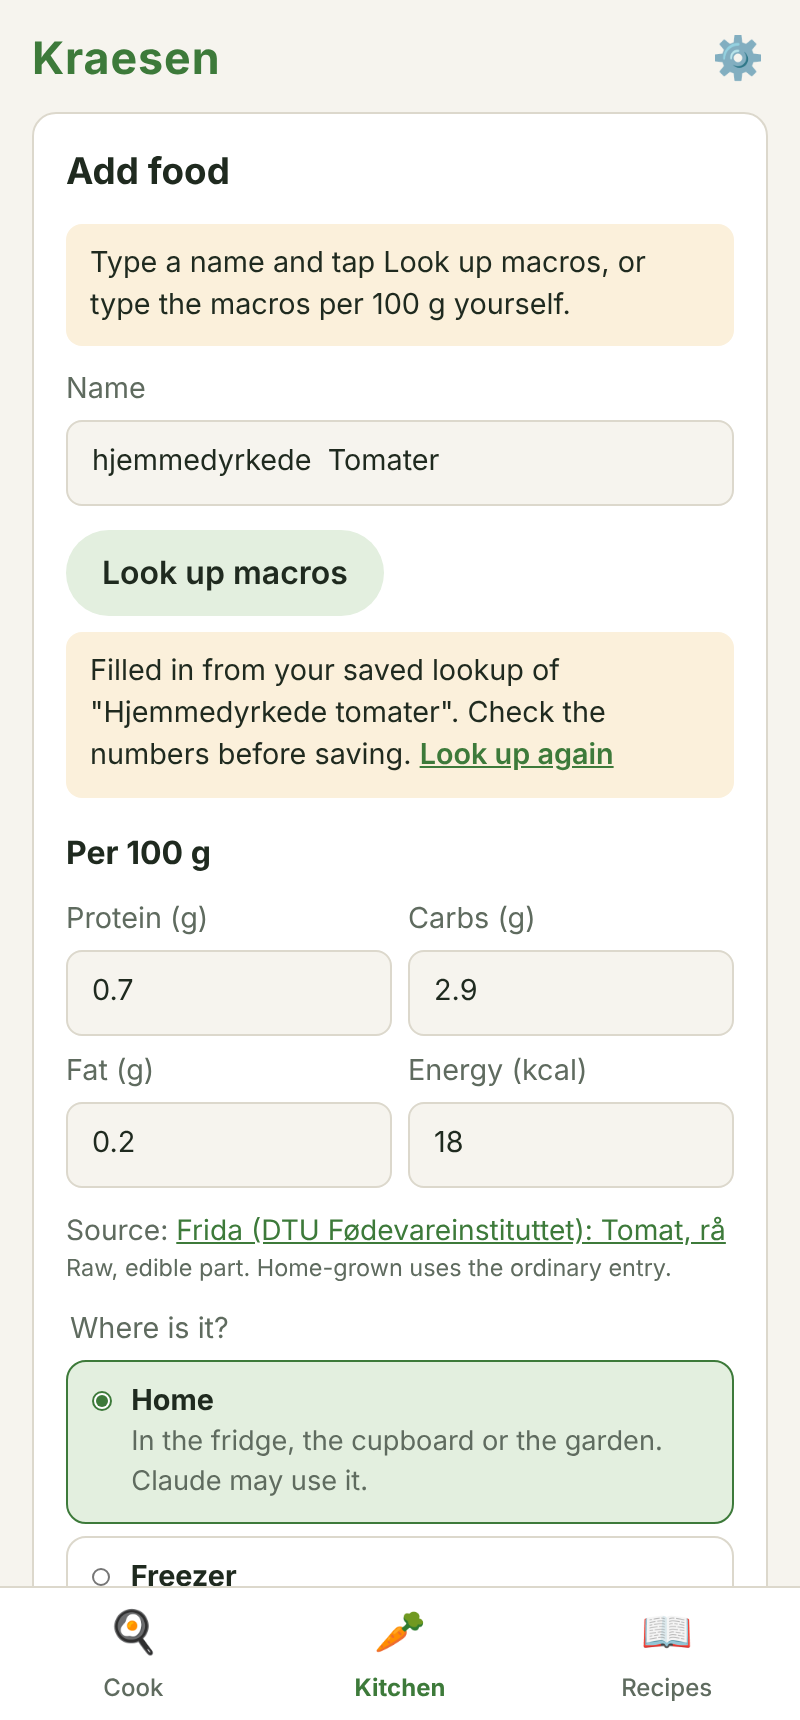
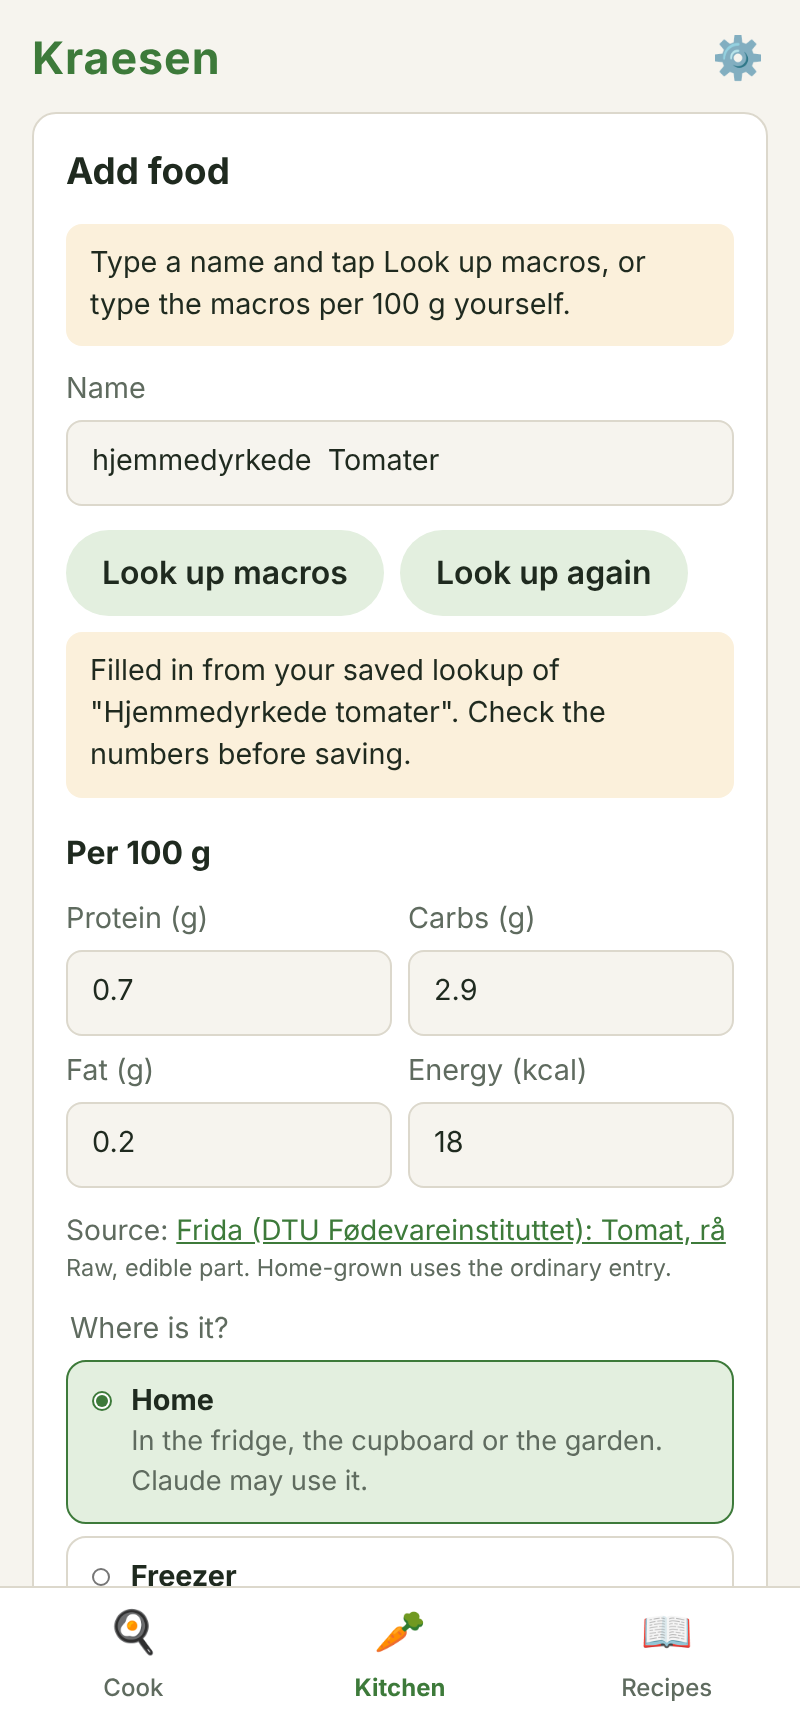
refactor: one tool-use loop for the macro lookup and the meal agent
Both loops shared the request envelope, stop-reason handling, nudge and
unknown-tool results; runToolLoop now owns them, and each caller only handles
its own tools. Look up again is a full-size button next to Look up macros.
Tests for NFD input and unknown food sources.

Claude-Session: https://claude.ai/code/session_01NExJTwrDuCiACXrkZnA18A

Changed region(s): [[0.5, 0.3081, 0.875, 0.3698], [0.5312, 0.4314, 0.7812, 0.4622]]

diff --git a/src/claude.ts b/src/claude.ts
@@ -5,6 +5,7 @@ import type {
   BetaMessageParam,
   BetaTool,
   BetaToolResultBlockParam,
+  BetaToolUnion,
   BetaToolUseBlock,
 } from '@anthropic-ai/sdk/resources/beta/messages/messages'
 import { type PortionRequest, type Solution, solvePortions } from './solver'
@@ -56,6 +57,76 @@ function textOf(msg: BetaMessage): string {
     .filter((b) => b.type === 'text')
     .map((b) => (b as { text: string }).text)
     .join('')
+}
+
+// ---------------------------------------------------------------------------
+// Tool-use loop shared by the macro lookup and the meal agent
+// ---------------------------------------------------------------------------
+
+/** What a client tool call produced: a result to send back to Claude, or the loop's final answer. */
+type ToolOutcome<T> = { result: string; isError: boolean } | { done: T }
+
+interface ToolLoop<T> {
+  system: string
+  tools: BetaToolUnion[]
+  firstMessage: string
+  maxTurns: number
+  effort: 'low' | 'medium' | 'high'
+  thinking?: { type: 'adaptive'; display: 'summarized' }
+  /** Said to Claude when it stops without calling a tool. */
+  nudge: string
+  /** Who is speaking in errors shown to the user, e.g. "The lookup". */
+  what: string
+  giveUp: string
+  /** Called with each response before its tool calls are handled. */
+  onResponse?: (content: BetaMessage['content']) => void
+  handle: (toolUse: BetaToolUseBlock) => ToolOutcome<T>
+  signal?: AbortSignal
+}
+
+/**
+ * Sends the conversation, resumes paused server tool turns, and answers every client tool call
+ * in a response (an unanswered call would make the next request fail) until a handler is done.
+ */
+async function runToolLoop<T>(client: Anthropic, loop: ToolLoop<T>): Promise<T> {
+  const messages: BetaMessageParam[] = [{ role: 'user', content: loop.firstMessage }]
+  for (let turn = 0; turn < loop.maxTurns; turn++) {
+    if (loop.signal?.aborted) throw new Error('Cancelled')
+    const response = await client.beta.messages.create(
+      {
+        model: MODEL.id,
+        max_tokens: 16000,
+        betas: [FALLBACK_BETA],
+        fallbacks: 'default',
+        ...(loop.thinking ? { thinking: loop.thinking } : {}),
+        output_config: { effort: loop.effort },
+        system: loop.system,
+        tools: loop.tools,
+        messages,
+      },
+      { signal: loop.signal },
+    )
+    loop.onResponse?.(response.content)
+    if (response.stop_reason === 'refusal') throw new Error('Claude declined this request.')
+    if (response.stop_reason === 'max_tokens') throw new Error(`${loop.what} was cut off. Please try again.`)
+    messages.push({ role: 'assistant', content: response.content as BetaContentBlockParam[] })
+    // The server's tool loop paused; sending the conversation back resumes it.
+    if (response.stop_reason === 'pause_turn') continue
+
+    const toolUses = response.content.filter((b): b is BetaToolUseBlock => b.type === 'tool_use')
+    if (toolUses.length === 0) {
+      messages.push({ role: 'user', content: loop.nudge })
+      continue
+    }
+    const results: BetaToolResultBlockParam[] = []
+    for (const tu of toolUses) {
+      const outcome = loop.handle(tu)
+      if ('done' in outcome) return outcome.done
+      results.push({ type: 'tool_result', tool_use_id: tu.id, content: outcome.result, is_error: outcome.isError })
+    }
+    messages.push({ role: 'user', content: results })
+  }
+  throw new Error(loop.giveUp)
 }
 
 // ---------------------------------------------------------------------------
@@ -203,15 +274,12 @@ export const LOOKUP_SYSTEM =
 export type MacroEstimate = { found: false } | { found: true; lookup: FoodLookup }
 
 /** Every URL Claude saw in a search result or fetched while answering, without a trailing slash. */
-function seenUrls(content: BetaMessage['content'][]): Set<string> {
-  const urls = new Set<string>()
-  for (const blocks of content) {
-    for (const b of blocks) {
-      if (b.type === 'web_search_tool_result' && Array.isArray(b.content)) b.content.forEach((r) => urls.add(trimSlash(r.url)))
-      if (b.type === 'web_fetch_tool_result' && b.content.type === 'web_fetch_result') urls.add(trimSlash(b.content.url))
-    }
-  }
-  return urls
+function seenUrls(content: BetaMessage['content']): string[] {
+  return content.flatMap((b) => {
+    if (b.type === 'web_search_tool_result' && Array.isArray(b.content)) return b.content.map((r) => trimSlash(r.url))
+    if (b.type === 'web_fetch_tool_result' && b.content.type === 'web_fetch_result') return [trimSlash(b.content.url)]
+    return []
+  })
 }
 
 const trimSlash = (u: string) => u.replace(/\/+$/, '')
@@ -260,54 +328,29 @@ export function parseEstimate(input: unknown, query: string, urls: Set<string>, 
 }
 
 /** Looks up the macros per 100 g of any food with Claude and web search. The caller caches the result. */
-export async function estimateMacros(client: Anthropic, query: string, signal?: AbortSignal): Promise<MacroEstimate> {
-  const messages: BetaMessageParam[] = [{ role: 'user', content: `Food: ${query.trim()}` }]
-  const contents: BetaMessage['content'][] = []
-  for (let turn = 0; turn < 8; turn++) {
-    if (signal?.aborted) throw new Error('Cancelled')
-    const response = await client.beta.messages.create(
-      {
-        model: MODEL.id,
-        max_tokens: 16000,
-        betas: [FALLBACK_BETA],
-        fallbacks: 'default',
-        output_config: { effort: 'medium' },
-        system: LOOKUP_SYSTEM,
-        tools: [
-          { type: 'web_search_20260209', name: 'web_search', max_uses: 5 },
-          { type: 'web_fetch_20260209', name: 'web_fetch', max_uses: 4 },
-          ESTIMATE_TOOL,
-        ],
-        messages,
-      },
-      { signal },
-    )
-    if (response.stop_reason === 'refusal') throw new Error('Claude declined to look this up.')
-    if (response.stop_reason === 'max_tokens') throw new Error('The lookup was cut off. Please try again.')
-    contents.push(response.content)
-    messages.push({ role: 'assistant', content: response.content as BetaContentBlockParam[] })
-    // The server's search loop paused; sending the conversation back resumes it.
-    if (response.stop_reason === 'pause_turn') continue
-
-    const toolUses = response.content.filter((b): b is BetaToolUseBlock => b.type === 'tool_use')
-    if (toolUses.length === 0) {
-      messages.push({ role: 'user', content: 'Please finish by calling submit_macros.' })
-      continue
-    }
-    // Every tool call gets a result, even when Claude called submit_macros more than once.
-    const results: BetaToolResultBlockParam[] = []
-    for (const tu of toolUses) {
-      if (tu.name !== 'submit_macros') {
-        results.push({ type: 'tool_result', tool_use_id: tu.id, content: `Unknown tool ${tu.name}`, is_error: true })
-        continue
-      }
-      const parsed = parseEstimate(tu.input, query, seenUrls(contents))
-      if (parsed.ok) return parsed.value
-      results.push({ type: 'tool_result', tool_use_id: tu.id, content: parsed.error, is_error: true })
-    }
-    messages.push({ role: 'user', content: results })
-  }
-  throw new Error('Claude did not finish the lookup. Please try again.')
+export function estimateMacros(client: Anthropic, query: string, signal?: AbortSignal): Promise<MacroEstimate> {
+  const seen = new Set<string>()
+  return runToolLoop<MacroEstimate>(client, {
+    system: LOOKUP_SYSTEM,
+    tools: [
+      { type: 'web_search_20260209', name: 'web_search', max_uses: 5 },
+      { type: 'web_fetch_20260209', name: 'web_fetch', max_uses: 4 },
+      ESTIMATE_TOOL,
+    ],
+    firstMessage: `Food: ${query.trim()}`,
+    maxTurns: 8,
+    effort: 'medium',
+    nudge: 'Please finish by calling submit_macros.',
+    what: 'The lookup',
+    giveUp: 'Claude did not finish the lookup. Please try again.',
+    onResponse: (content) => seenUrls(content).forEach((u) => seen.add(u)),
+    handle: (tu) => {
+      if (tu.name !== 'submit_macros') return { result: `Unknown tool ${tu.name}`, isError: true }
+      const parsed = parseEstimate(tu.input, query, seen)
+      return parsed.ok ? { done: parsed.value } : { result: parsed.error, isError: true }
+    },
+    signal,
+  })
 }
 
 // ---------------------------------------------------------------------------
@@ -560,7 +603,6 @@ export async function generateMeal(
 
   const { system, user } = buildPrompt(req, foods)
   const tools = toolsFor(req.staples)
-  const messages: BetaMessageParam[] = [{ role: 'user', content: user }]
   const solutions = new Map<string, Solution>()
   let counter = 0
 
@@ -598,75 +640,57 @@ export async function generateMeal(
     }
   }
 
-  for (let turn = 0; turn < 16; turn++) {
-    if (signal?.aborted) throw new Error('Cancelled')
-    const response = await client.beta.messages.create(
-      {
-        model: MODEL.id,
-        max_tokens: 16000,
-        betas: [FALLBACK_BETA],
-        fallbacks: 'default',
-        thinking: { type: 'adaptive', display: 'summarized' },
-        output_config: { effort: 'medium' },
-        system,
-        tools,
-        messages,
+  const submit = (input: unknown): ToolOutcome<Recipe> => {
+    const parsed = parseSubmit(input, req.staples)
+    const sol = parsed.ok ? solutions.get(parsed.value.solution_id) : undefined
+    if (!parsed.ok || !sol) {
+      const reason = parsed.ok ? `Unknown solution_id: ${parsed.value.solution_id}` : parsed.error
+      onEvent({ kind: 'rejected', reason })
+      return { result: reason, isError: true }
+    }
+    const recipe = parsed.value
+    const kept = sol.portions.filter((p) => p.grams > 0)
+    return {
+      done: {
+        id: crypto.randomUUID(),
+        title: recipe.title,
+        summary: recipe.summary,
+        ingredients: kept.map((p) => ({ wareId: p.ware.id, name: p.ware.name, grams: p.grams, toBuy: p.ware.stock === 'shop' })),
+        extras: recipe.extras,
+        steps: recipe.steps,
+        tips: recipe.tips,
+        totals: sol.totals,
+        target: sol.target,
+        createdAt: Date.now(),
       },
-      { signal },
-    )
-
-    for (const block of response.content) {
-      if (block.type === 'thinking' && block.thinking) onEvent({ kind: 'thinking', text: block.thinking })
-      if (block.type === 'text' && block.text.trim()) onEvent({ kind: 'note', text: block.text })
     }
+  }
 
-    if (response.stop_reason === 'refusal') throw new Error('Claude declined this request.')
-    if (response.stop_reason === 'max_tokens') throw new Error('The response was cut off. Please try again.')
-
-    messages.push({ role: 'assistant', content: response.content as BetaContentBlockParam[] })
-
-    if (response.stop_reason === 'pause_turn') continue
-
-    const toolUses = response.content.filter((b): b is BetaToolUseBlock => b.type === 'tool_use')
-    if (toolUses.length === 0) {
-      messages.push({ role: 'user', content: 'Please continue: use compute_portions and finish with submit_recipe.' })
-      continue
-    }
-
-    const results: BetaToolResultBlockParam[] = []
-    for (const tu of toolUses) {
+  return runToolLoop<Recipe>(client, {
+    system,
+    tools,
+    firstMessage: user,
+    maxTurns: 16,
+    effort: 'medium',
+    thinking: { type: 'adaptive', display: 'summarized' },
+    nudge: 'Please continue: use compute_portions and finish with submit_recipe.',
+    what: 'The response',
+    giveUp: 'Claude did not finish a recipe in time. Try again, perhaps with a looser target.',
+    onResponse: (content) => {
+      for (const block of content) {
+        if (block.type === 'thinking' && block.thinking) onEvent({ kind: 'thinking', text: block.thinking })
+        if (block.type === 'text' && block.text.trim()) onEvent({ kind: 'note', text: block.text })
+      }
+    },
+    handle: (tu) => {
       if (tu.name === 'compute_portions') {
         const r = compute(tu.input)
         if (r.isError) onEvent({ kind: 'rejected', reason: r.content })
-        results.push({ type: 'tool_result', tool_use_id: tu.id, content: r.content, is_error: r.isError })
-      } else if (tu.name === 'submit_recipe') {
-        const parsed = parseSubmit(tu.input, req.staples)
-        const sol = parsed.ok ? solutions.get(parsed.value.solution_id) : undefined
-        if (!parsed.ok || !sol) {
-          const reason = parsed.ok ? `Unknown solution_id: ${parsed.value.solution_id}` : parsed.error
-          onEvent({ kind: 'rejected', reason })
-          results.push({ type: 'tool_result', tool_use_id: tu.id, content: reason, is_error: true })
-          continue
-        }
-        const input = parsed.value
-        const kept = sol.portions.filter((p) => p.grams > 0)
-        return {
-          id: crypto.randomUUID(),
-          title: input.title,
-          summary: input.summary,
-          ingredients: kept.map((p) => ({ wareId: p.ware.id, name: p.ware.name, grams: p.grams, toBuy: p.ware.stock === 'shop' })),
-          extras: input.extras,
-          steps: input.steps,
-          tips: input.tips,
-          totals: sol.totals,
-          target: sol.target,
-          createdAt: Date.now(),
-        }
-      } else {
-        results.push({ type: 'tool_result', tool_use_id: tu.id, content: `Unknown tool ${tu.name}`, is_error: true })
+        return { result: r.content, isError: r.isError }
       }
-    }
-    messages.push({ role: 'user', content: results })
-  }
-  throw new Error('Claude did not finish a recipe in time. Try again, perhaps with a looser target.')
+      if (tu.name === 'submit_recipe') return submit(tu.input)
+      return { result: `Unknown tool ${tu.name}`, isError: true }
+    },
+    signal,
+  })
 }

diff --git a/src/components/FoodEditor.tsx b/src/components/FoodEditor.tsx
@@ -164,6 +164,11 @@ export function FoodEditor({ initial, title, banner, onSave, onCancel, onDelete 
                 Add API key to look up macros
               </button>
             )}
+            {lookup.st.kind === 'done' && lookup.st.cached && (
+              <button type="button" className="secondary" onClick={() => lookup.run(next.name, true)}>
+                Look up again
+              </button>
+            )}
             {busy && (
               <button
                 type="button"
@@ -201,14 +206,6 @@ export function FoodEditor({ initial, title, banner, onSave, onCancel, onDelete 
                 ? `Filled in from your saved lookup of "${lookup.st.lookup.query}". `
                 : 'Filled in by Claude from the source below. '}
               Check the numbers before saving.
-              {lookup.st.cached && (
-                <>
-                  {' '}
-                  <button type="button" className="link" onClick={() => lookup.run(next.name, true)}>
-                    Look up again
-                  </button>
-                </>
-              )}
             </p>
           )}
         </div>

diff --git a/src/persist.test.ts b/src/persist.test.ts
@@ -181,6 +181,10 @@ describe('macro lookups', () => {
     expect(s.lookups[0].source).toEqual({ name: 'Frida', note: 'Raw.' })
   })
 
+  it('reads an unknown food source as custom', () => {
+    expect(normalize({ version: 2, wares: [{ ...sample().wares[0], source: 'magic' }] }).wares[0].source).toBe('custom')
+  })
+
   it('round-trips a looked-up food with its source', () => {
     const food = { ...sample().wares[0], source: 'lookup' as const, sourceRef: { name: 'Frida', url: 'https://frida.fooddata.dk/food/1', note: 'Raw.' } }
     const next = importJson(exportJson({ ...sample(), wares: [food] }), emptyState())

diff --git a/src/types.test.ts b/src/types.test.ts
@@ -21,6 +21,9 @@ describe('normalizeQuery', () => {
     expect(normalizeQuery('  Hjemmedyrkede   TOMATER! ')).toBe('hjemmedyrkede tomater')
     expect(normalizeQuery('Rød-kål, rå')).toBe('rød kål rå')
     expect(normalizeQuery('Skyr 0,2%')).toBe('skyr 0 2%')
+    expect(normalizeQuery('2% mælk')).not.toBe(normalizeQuery('mælk'))
+    // "å" typed as one character or as "a" plus a combining ring gives the same key.
+    expect(normalizeQuery('Kål, r\u00e5')).toBe(normalizeQuery('Kål, ra\u030a'))
   })
 })
 
